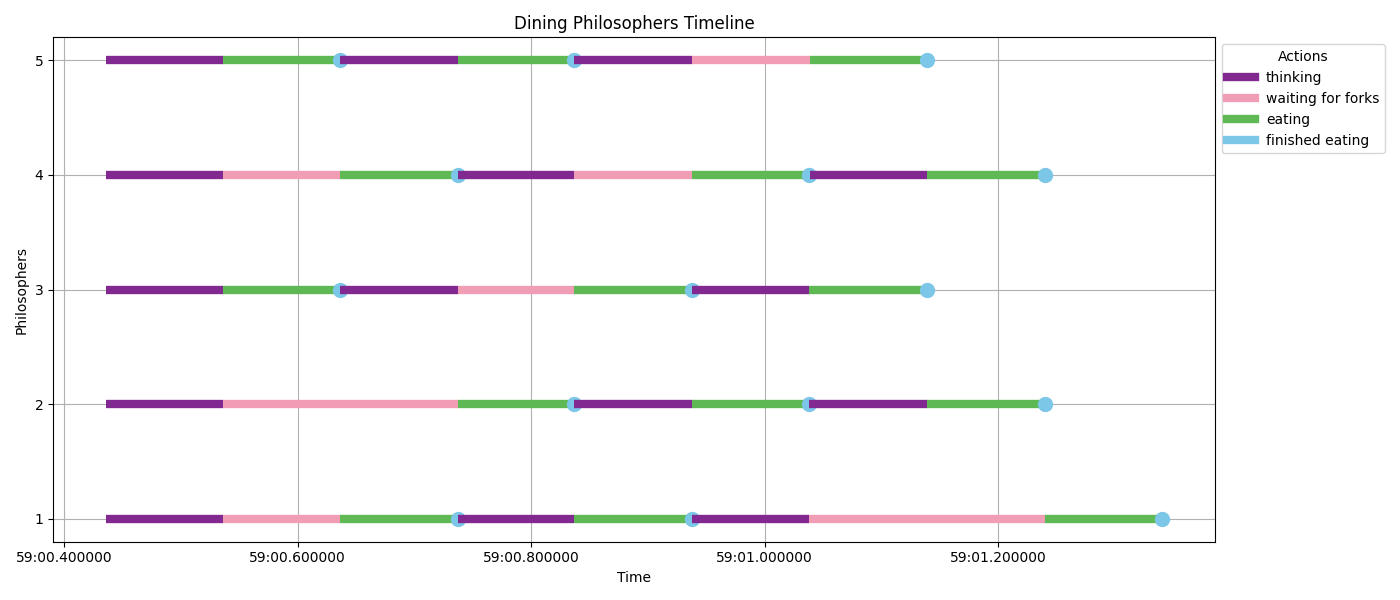
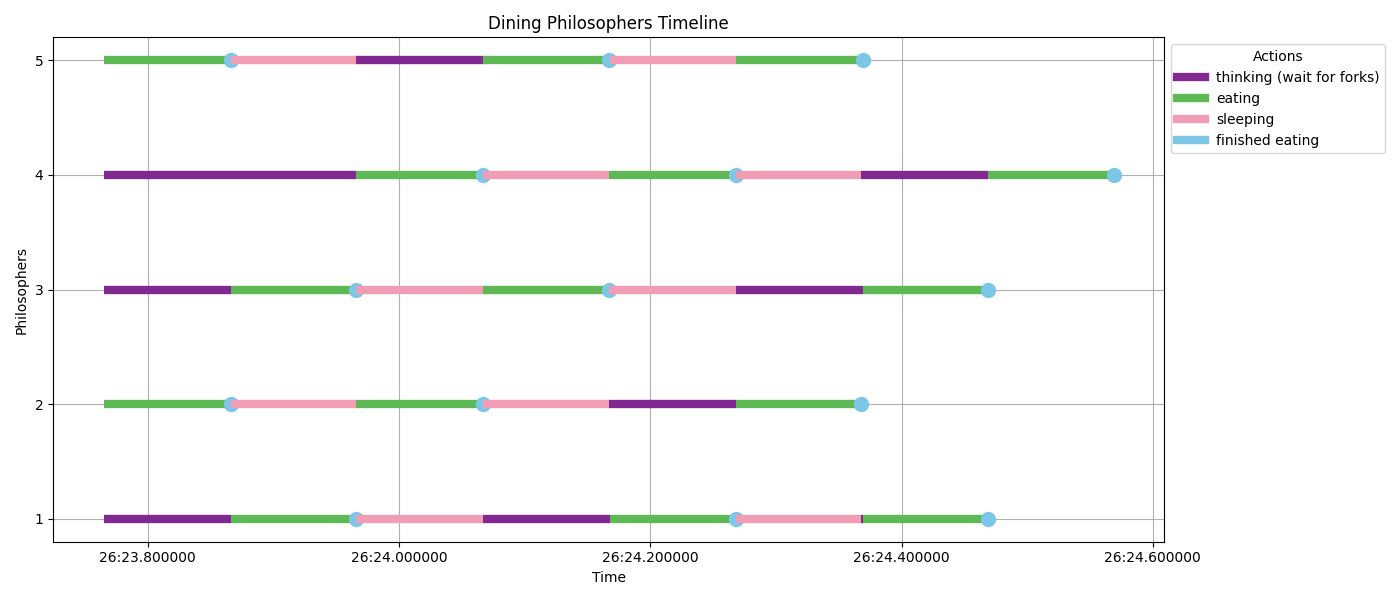
Update: for 42 subject

diff --git a/src/02-random-time/main.go b/src/02-random-time/main.go
@@ -14,22 +14,21 @@ type Philosopher struct {
 
 func (p *Philosopher) dine(wg *sync.WaitGroup) {
 	defer wg.Done()
-	// 3 cycles of  "thinking" -> "waiting" -> "eating"
 	for i := 0; i < 3; i++ {
 		p.think()
-		p.waitForForks() // In 42, We express it as "sleep"
 		p.eat()
+		p.sleep()
 	}
 }
 
-func (p *Philosopher) think() {
-	logAction(p.id, "thinking")
-	thinkUnitTime := time.Duration(10 * rand.Intn(10))
-	time.Sleep(time.Millisecond * thinkUnitTime)
+func (p *Philosopher) sleep() {
+	logAction(p.id, "sleeping")
+	sleepUnitTime := time.Duration(10 * rand.Intn(10))
+	time.Sleep(time.Millisecond * sleepUnitTime)
 }
 
-func (p *Philosopher) waitForForks() {
-	logAction(p.id, "waiting for forks")
+func (p *Philosopher) think() {
+	logAction(p.id, "thinking (wait for forks)")
 	waitStart := time.Now()
 
 	if p.id%2 == 0 {

diff --git a/src/01-simple/main.go b/src/01-simple/main.go
@@ -13,21 +13,20 @@ type Philosopher struct {
 
 func (p *Philosopher) dine(wg *sync.WaitGroup) {
 	defer wg.Done()
-	// 3 cycles of  "thinking" -> "waiting" -> "eating"
 	for i := 0; i < 3; i++ {
 		p.think()
-		p.waitForForks() // In 42, We express it as "sleep"
 		p.eat()
+		p.sleep()
 	}
 }
 
-func (p *Philosopher) think() {
-	logAction(p.id, "thinking")
+func (p *Philosopher) sleep() {
+	logAction(p.id, "sleeping")
 	time.Sleep(time.Millisecond * 100)
 }
 
-func (p *Philosopher) waitForForks() {
-	logAction(p.id, "waiting for forks")
+func (p *Philosopher) think() {
+	logAction(p.id, "thinking (wait for forks)")
 	waitStart := time.Now()
 
 	if p.id%2 == 0 {

diff --git a/src/01-simple/analyze.py b/src/01-simple/analyze.py
@@ -27,9 +27,9 @@ data = pd.DataFrame({
 })
 
 action_colors = {
-    "thinking": "#812990",
-    "waiting for forks": "#f19db5",
+    "thinking (wait for forks)": "#812990",
     "eating": "#5eb954",
+    "sleeping": "#f19db5",
     "finished eating": "#7cc7e8"
 }
 

diff --git a/src/02-random-time/analyze.py b/src/02-random-time/analyze.py
@@ -27,9 +27,9 @@ data = pd.DataFrame({
 })
 
 action_colors = {
-    "thinking": "#812990",
-    "waiting for forks": "#f19db5",
+    "thinking (wait for forks)": "#812990",
     "eating": "#5eb954",
+    "sleeping": "#f19db5",
     "finished eating": "#7cc7e8"
 }
 

diff --git a/src/02-random-time/README.md b/src/02-random-time/README.md
@@ -1,10 +1,10 @@
 ## Random
 
-"think", "eat"の時間をランダムにしてみました。
+"sleep", "eat"の時間をランダムにしてみました。
 
 ```go
-	thinkUnitTime := time.Duration(10 * rand.Intn(10))
-	time.Sleep(time.Millisecond * thinkUnitTime)
+	sleepUnitTime := time.Duration(10 * rand.Intn(10))
+	time.Sleep(time.Millisecond * sleepUnitTime)
 ```
 
 ```go
